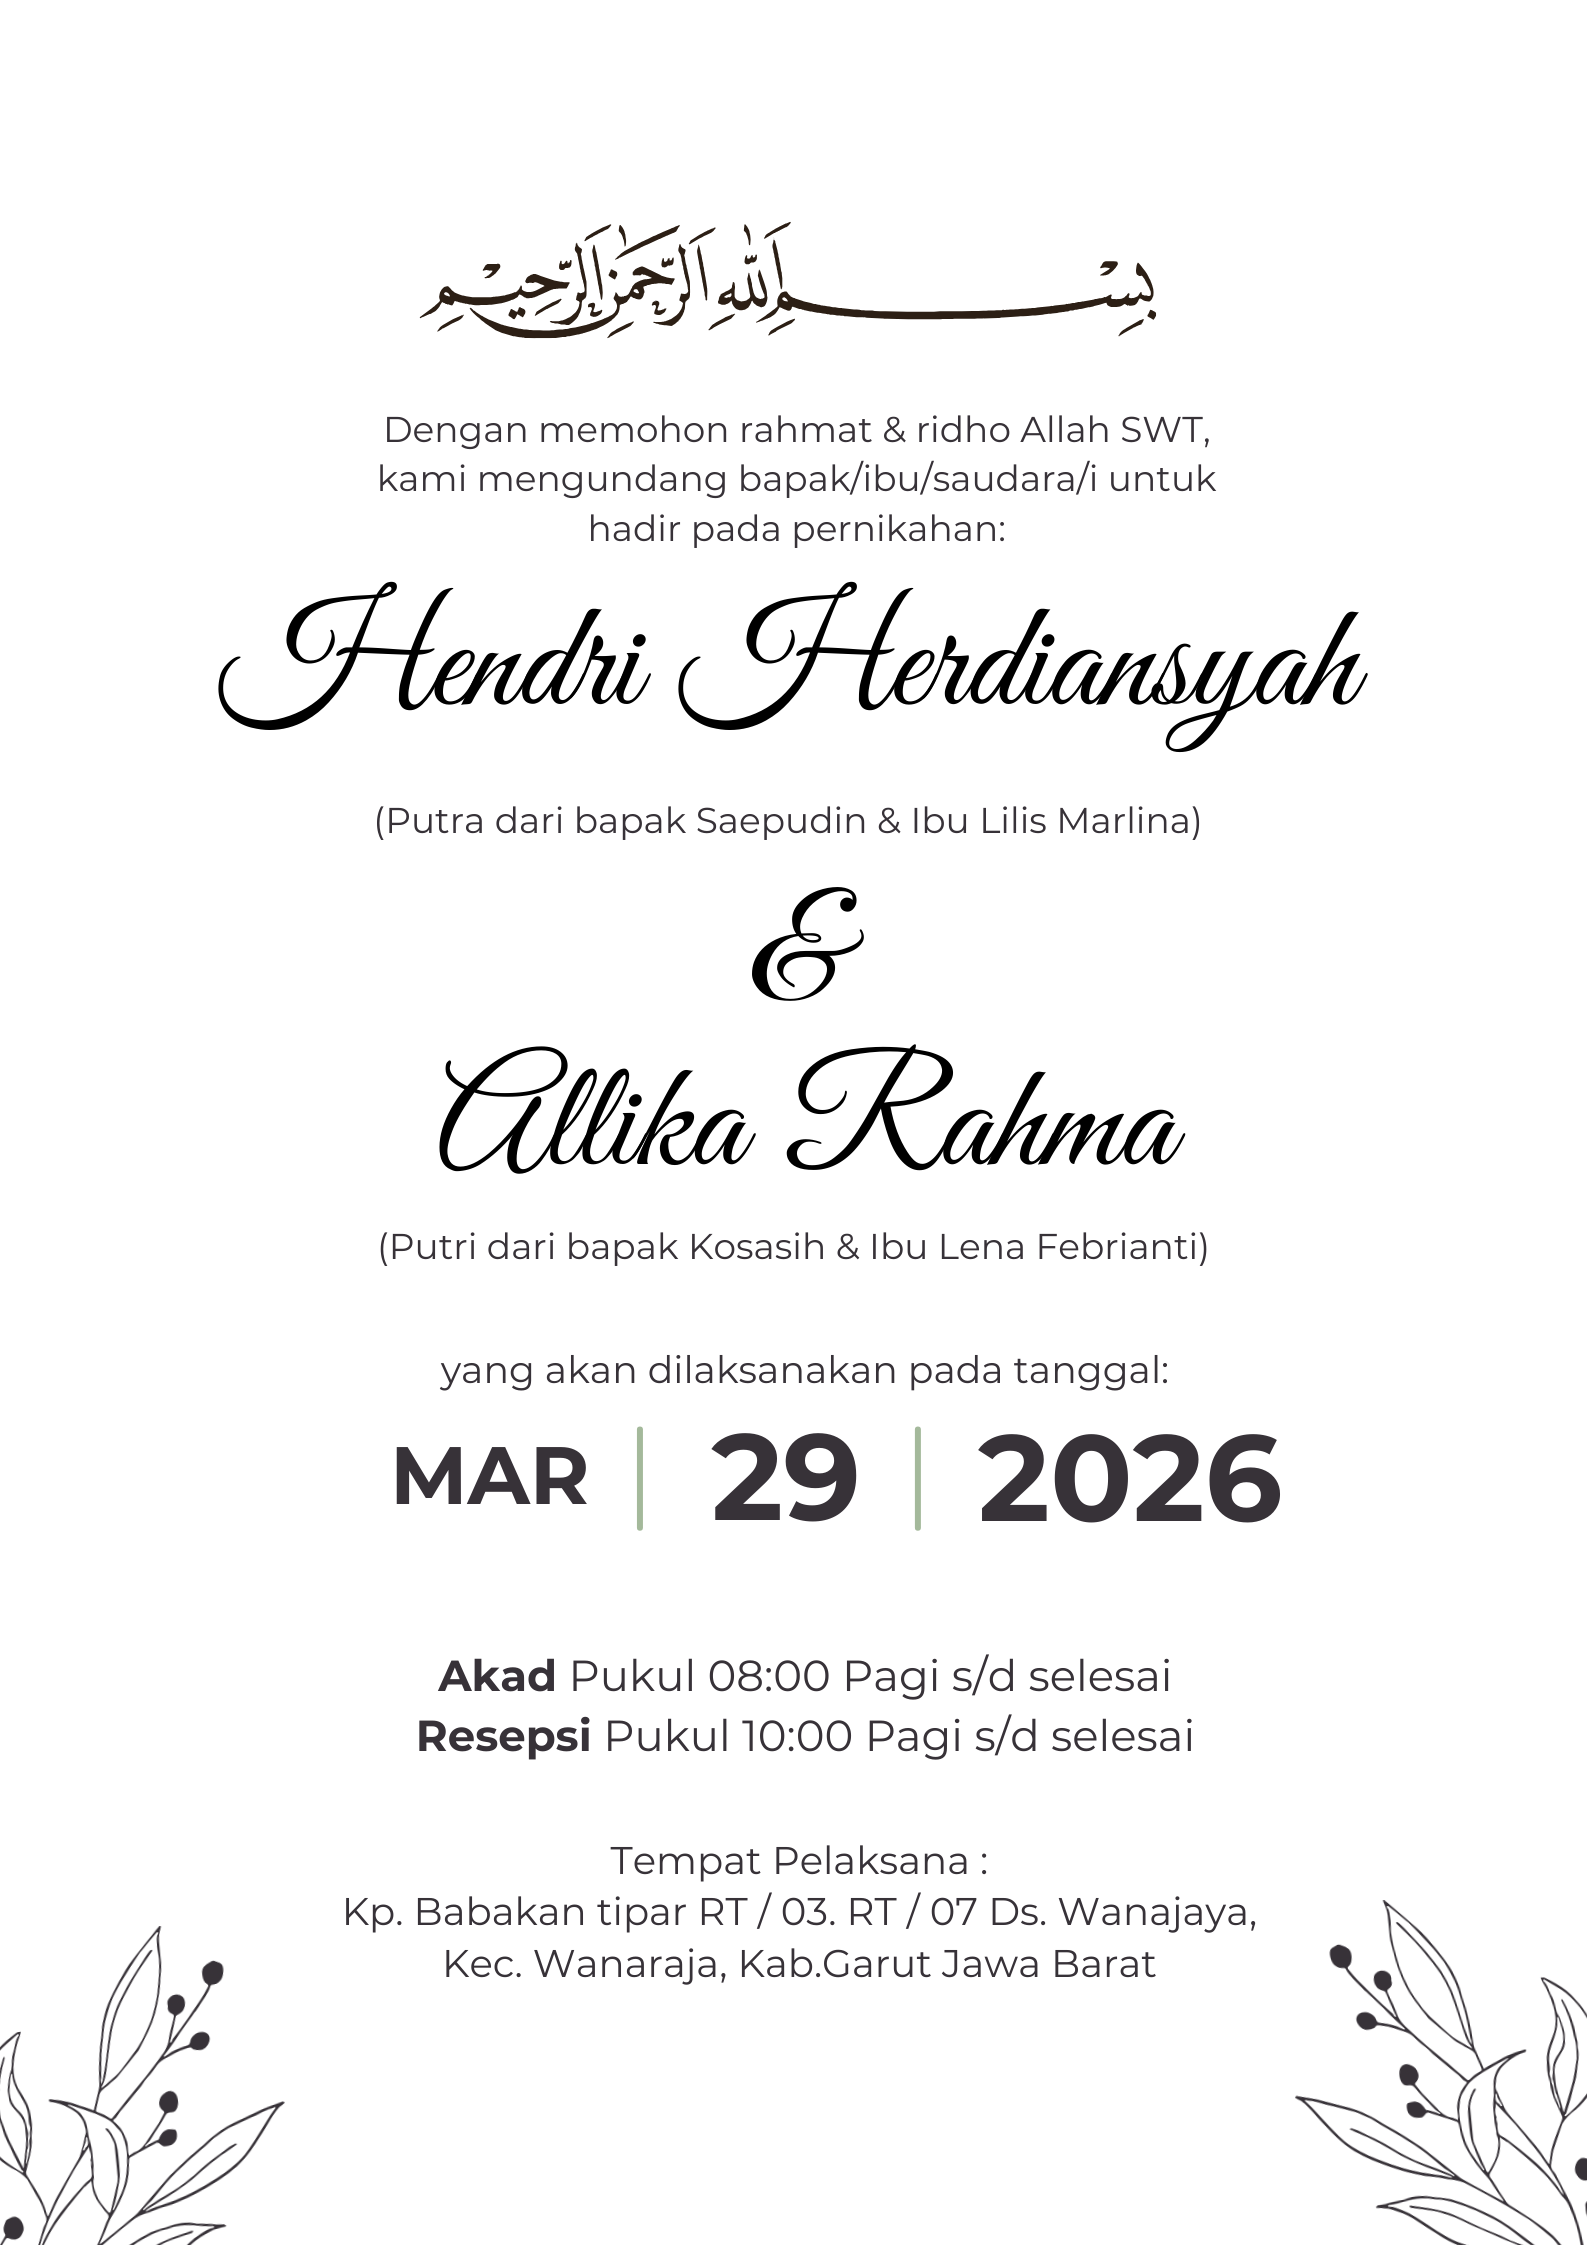
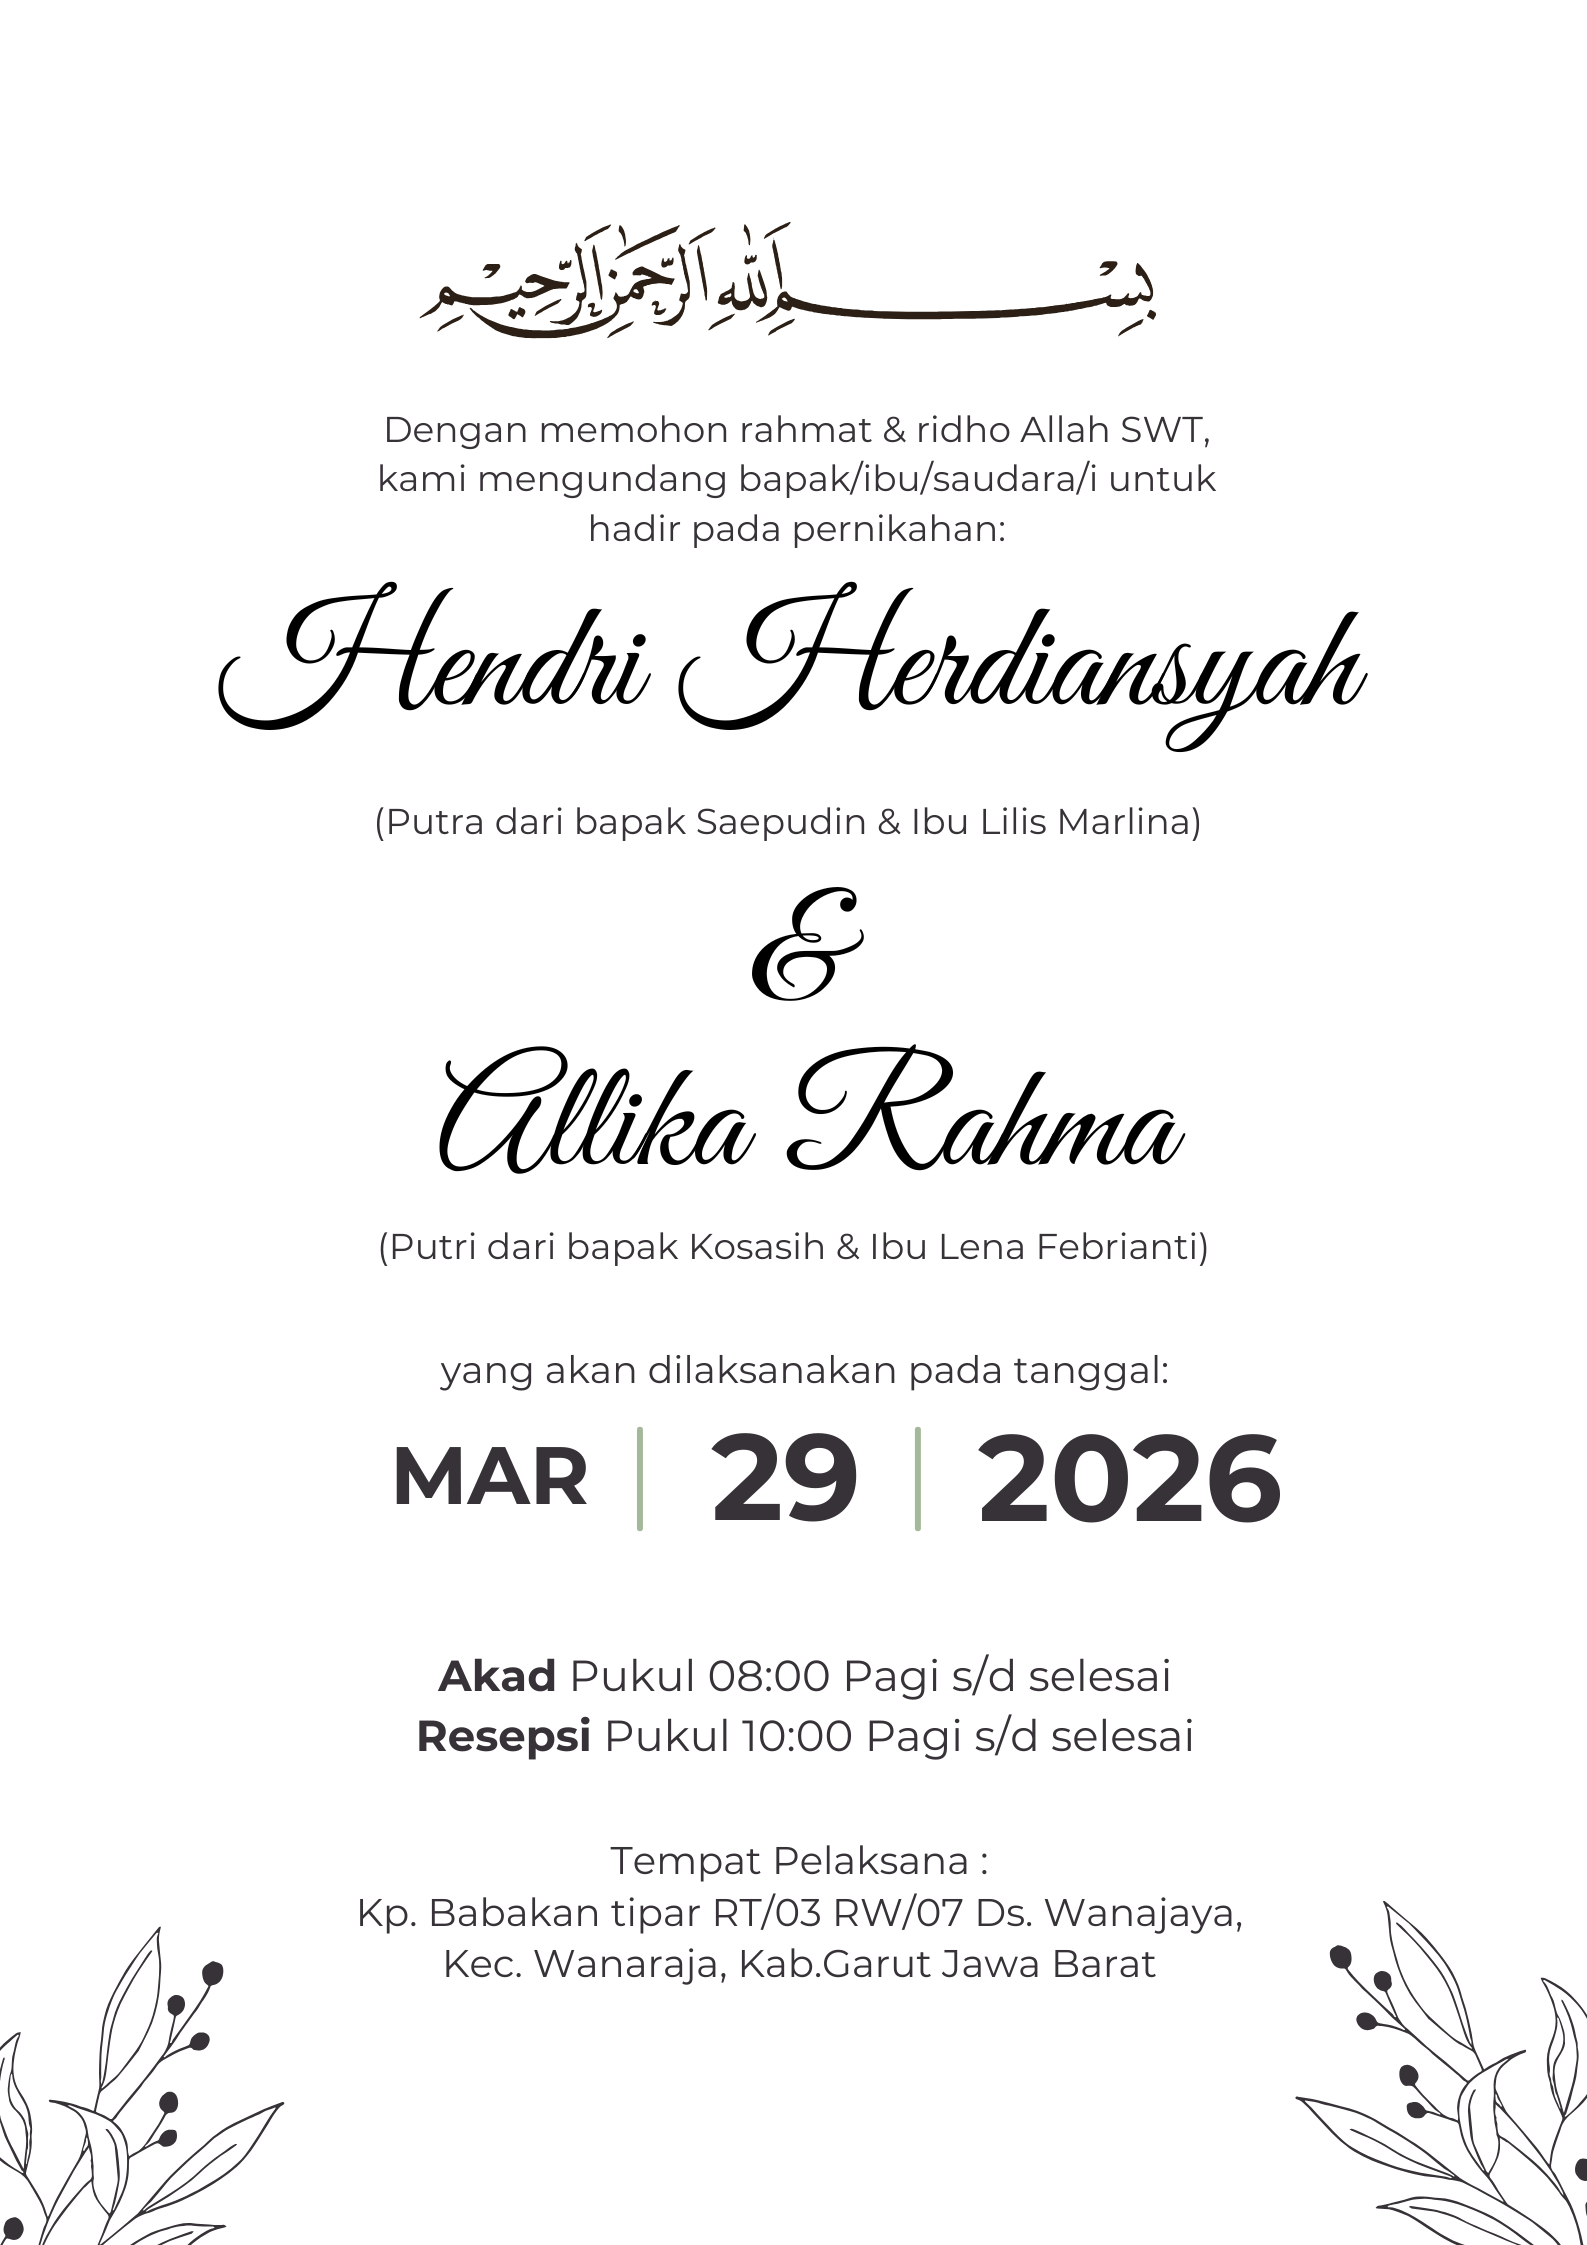
alamat

diff --git a/style.css b/style.css
@@ -6,7 +6,7 @@
 }
 
 body{
-  line-height:1.6;
+  line-height:1;
 }
 
 .container{
